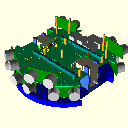
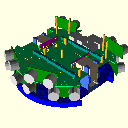
Updated encoder boards to be rendered in Fuchsia instead of PaleGreen.

Changed region(s): [[0.2812, 0.2812, 0.4688, 0.375], [0.5312, 0.4375, 0.6562, 0.5], [0.6562, 0.4062, 0.7188, 0.4375]]

diff --git a/mechanical/scad_models/hr2_models.py b/mechanical/scad_models/hr2_models.py
@@ -439,7 +439,7 @@ class EncoderBoard:
 
         # Now create *encoder_pcb* and *colored_pcb*:
         extruded_pcb: LinearExtrude = LinearExtrude("Extruded Encoder PCB", pcb_polygon, pcb_height)
-        colored_pcb: Scad3D = Color("Colored Encoder PCB", extruded_pcb, "PaleGreen")
+        colored_pcb: Scad3D = Color("Colored Encoder PCB", extruded_pcb, "Fuchsia")
 
         # Create the *encoder_union* so we can do the final rotate and translate operations:
         encoder_union: Union3D = Union3D("Encoder Union", [
